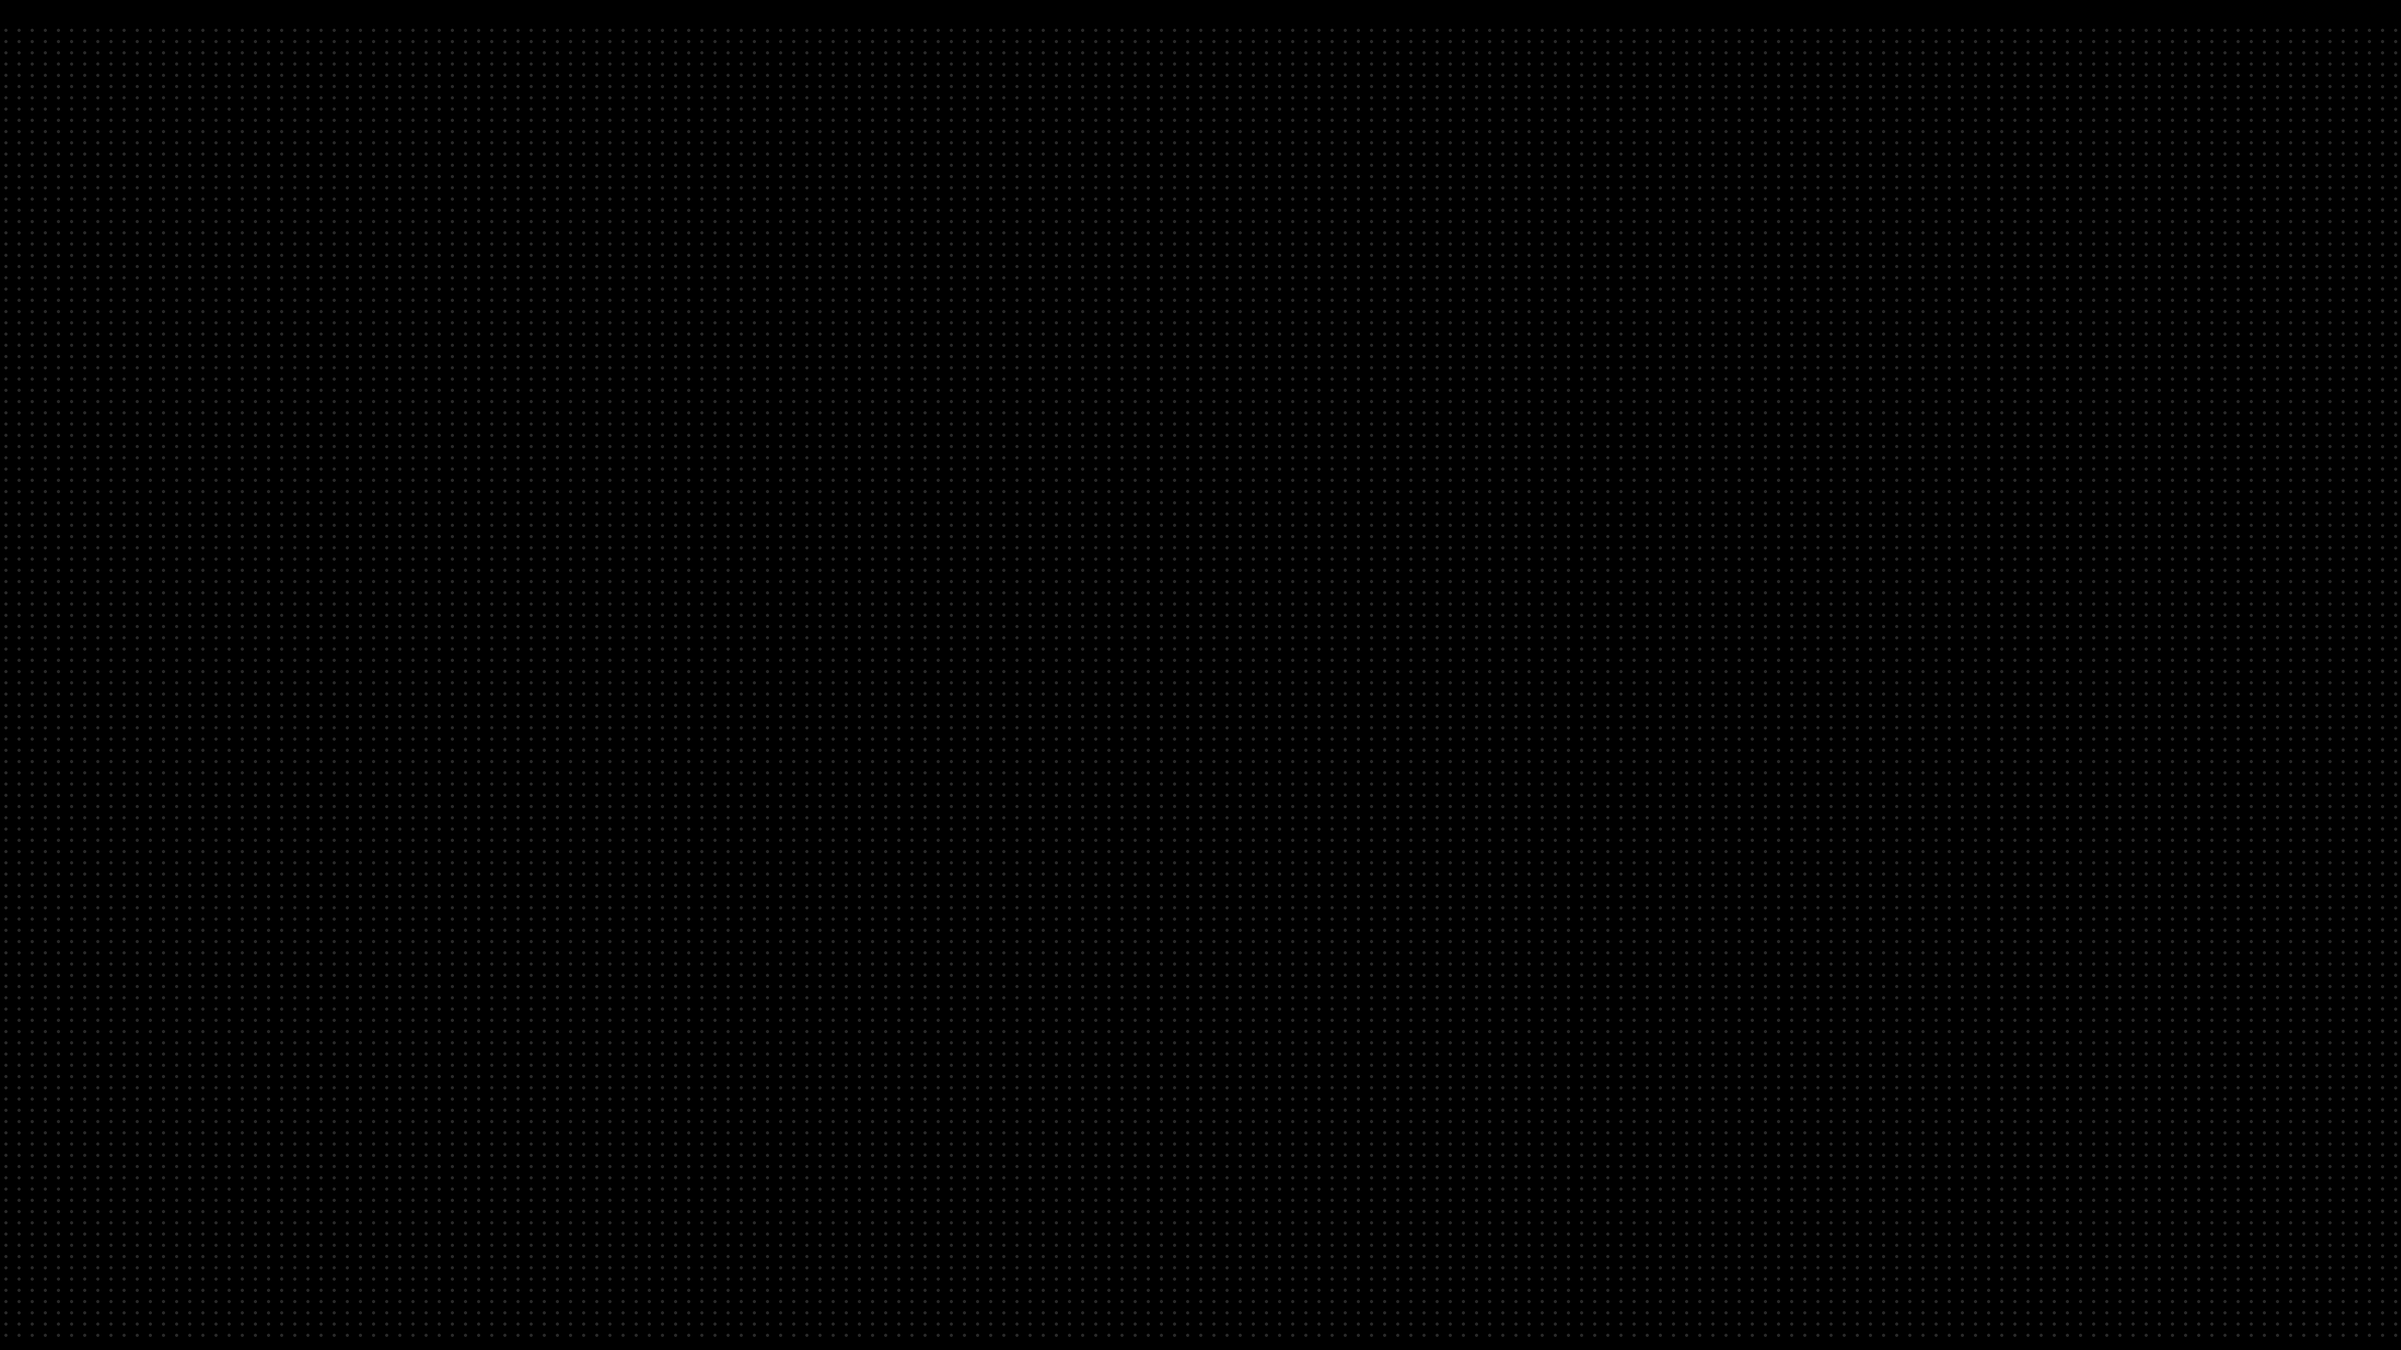
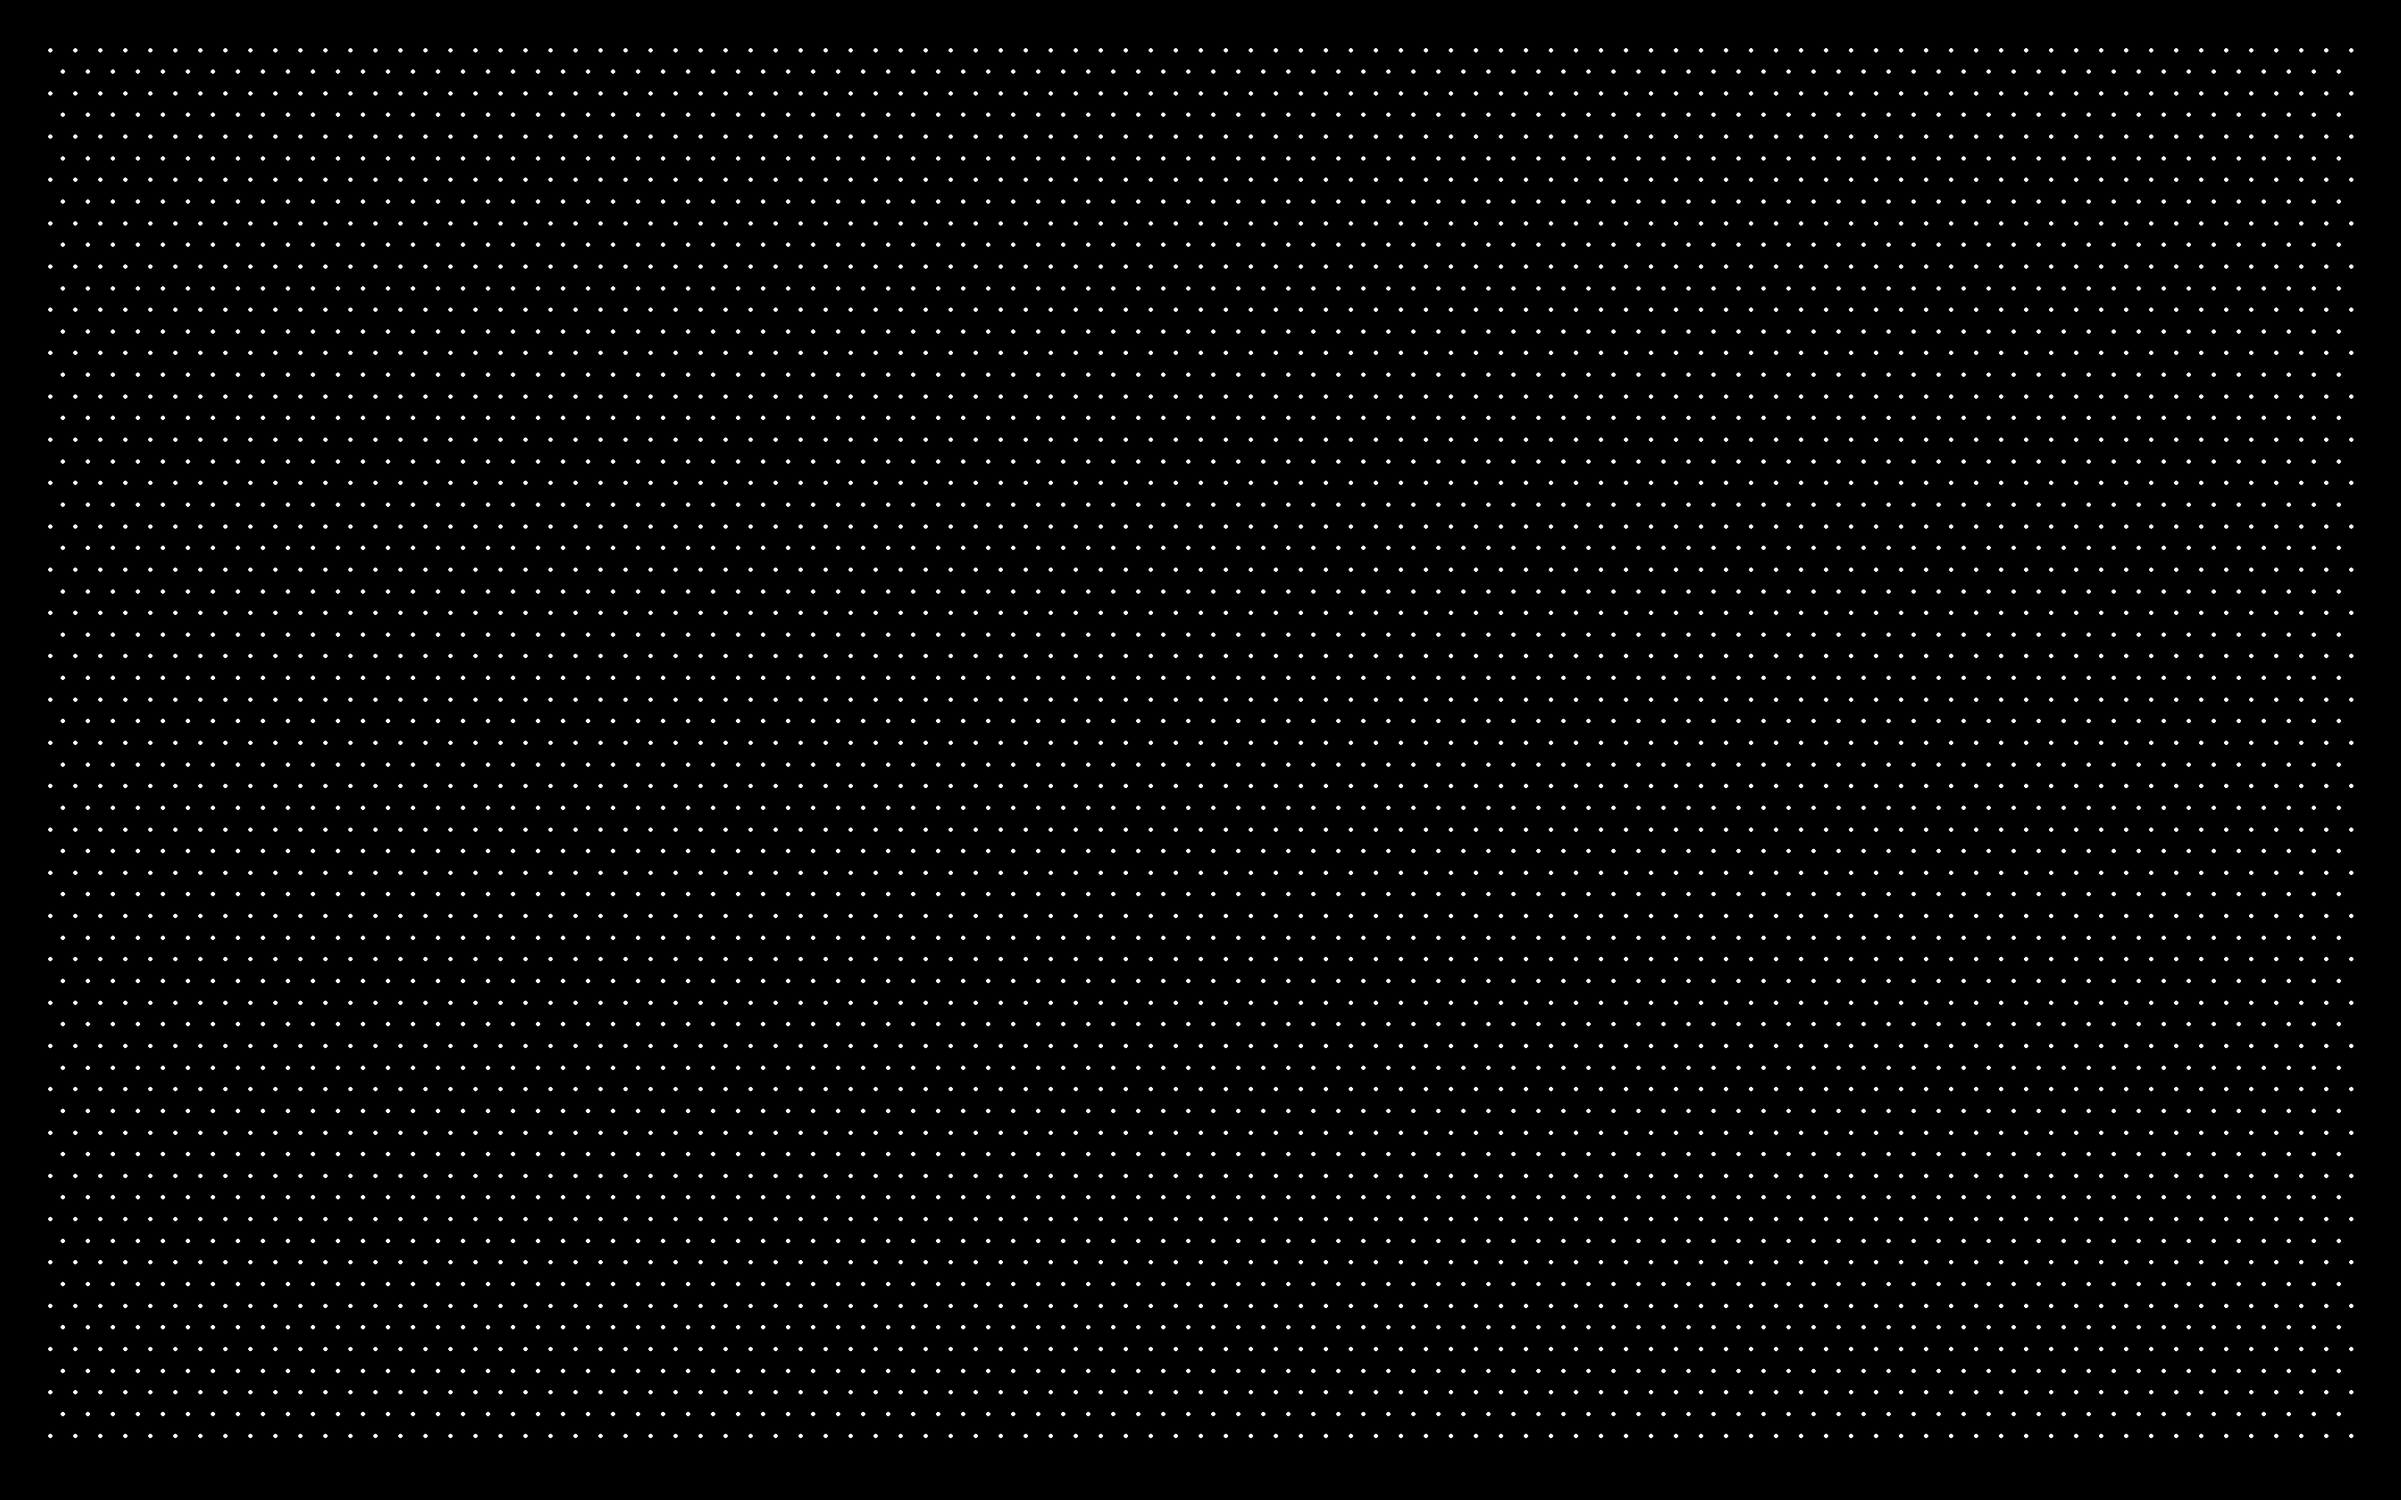
Replaces recursive BSP wallpaper generation with parametric isometric dot grid
Replaces the recursive binary space partitioning-based wallpaper generation logic with a parametric isometric dot grid generator.

The new implementation uses a hexagonal grid pattern with customizable parameters such as spacing, margin, dot radius, colors, and output path. The change introduces support for a CLI interface with argument parsing, allowing more flexibility for users to define grid properties.

Removes hardcoded constants and improves usability, maintainability, and customization options.

diff --git a/wallpapers/dotted_wallpaper.py b/wallpapers/dotted_wallpaper.py
@@ -1,121 +1,122 @@
+import argparse
+import math
+from pathlib import Path
+
 from PIL import Image, ImageDraw
 
-# ================= CONFIGURATION =================
-# 1. Screen Dimensions
-SCREEN_W = 3840
-SCREEN_H = 2400
-SCALE = 1.5
 
-# 2. Window Manager Settings (Use Logical values, script handles scaling)
-BAR_HEIGHT = 48
-GAP_OUTER = 18  # Space between screen edge and windows
-GAP_INNER = 18  # Space between two windows (Visual size)
-# Note: If your config says "gaps_in 6", the visual gap is often 6+6=12.
-# We use 12 here to ensure the wallpaper gap matches the visual gap.
+def generate_isometric_dots(
+	width: int = 3840,
+	height: int = 2400,
+	background_color: tuple[int, int, int] = (0, 0, 0),
+	dot_color: tuple[int, int, int] = (255, 255, 255),
+	dot_radius: int = 3,
+	spacing: int = 40,
+	margin: int = 80,
+	output: Path | str = "dotted_wallpaper.png",
+) -> Path:
+	"""Generate an isometric grid of dots on a solid background.
 
-# 3. Visuals
-RECURSION_DEPTH = 6  # How many times to split? (5 is usually enough for 4K)
-DOT_SIZE = 2  # Radius (2 = 4px circle)
-DOT_SPACING = 18  # How far apart dots are along the line
-DOT_COLOR = (80, 80, 80)  # Light Grey
-BG_COLOR = (10, 10, 10)  # Deep Dark Grey
+	The grid is a hexagonal/triangular lattice: each row is offset by half the
+	horizontal spacing, and vertical spacing is spacing * sin(60°).
+	All numeric parameters are in pixels.
+	"""
 
-# ================= SETUP =================
-# Convert logical to physical pixels
-bar_phys = int(BAR_HEIGHT * SCALE)
-gap_out_phys = int(GAP_OUTER * SCALE)
-gap_in_phys = int(GAP_INNER * SCALE)
+	img = Image.new("RGB", (width, height), background_color)
+	draw = ImageDraw.Draw(img)
 
-image = Image.new("RGB", (SCREEN_W, SCREEN_H), BG_COLOR)
-draw = ImageDraw.Draw(image)
+	h_spacing = float(spacing)
+	v_spacing = spacing * math.sin(math.radians(60))  # ≈ 0.866 * spacing
 
+	y = float(margin)
+	row_index = 0
 
-# ================= RECURSIVE FUNCTION =================
-def draw_splits(x, y, w, h, depth):
-    if depth == 0:
-        return
+	while y <= height - margin:
+		# Stagger every other row by half the horizontal spacing
+		x = float(margin) + (h_spacing / 2.0 if row_index % 2 else 0.0)
 
-    # --- 1. Calculate Split Coordinates ---
-    # The math: (Width - Gap) / 2
+		while x <= width - margin:
+			left = x - dot_radius
+			top = y - dot_radius
+			right = x + dot_radius
+			bottom = y + dot_radius
+			draw.ellipse((left, top, right, bottom), fill=dot_color)
+			x += h_spacing
 
-    # Vertical Split (splits width)
-    child_w = (w - gap_in_phys) / 2
-    split_x_center = x + child_w + (gap_in_phys / 2)
+		y += v_spacing
+		row_index += 1
 
-    # Horizontal Split (splits height)
-    child_h = (h - gap_in_phys) / 2
-    split_y_center = y + child_h + (gap_in_phys / 2)
-
-    # --- 2. Draw Dots at these Split Lines ---
-
-    # Draw Vertical Line (Line at X, spanning current height)
-    # We iterate along the Y axis of the current block
-    for dy in range(int(y), int(y + h), DOT_SPACING):
-        # Draw dot centered at (split_x_center, dy)
-        draw.ellipse(
-            [
-                split_x_center - DOT_SIZE,
-                dy - DOT_SIZE,
-                split_x_center + DOT_SIZE,
-                dy + DOT_SIZE,
-            ],
-            fill=DOT_COLOR,
-        )
-
-    # Draw Horizontal Line (Line at Y, spanning current width)
-    # We iterate along the X axis of the current block
-    for dx in range(int(x), int(x + w), DOT_SPACING):
-        # Draw dot centered at (dx, split_y_center)
-        draw.ellipse(
-            [
-                dx - DOT_SIZE,
-                split_y_center - DOT_SIZE,
-                dx + DOT_SIZE,
-                split_y_center + DOT_SIZE,
-            ],
-            fill=DOT_COLOR,
-        )
-
-    # --- 3. Recurse ---
-    # We need to simulate splits in all 4 resulting quadrants
-    # to catch every possible window configuration.
-
-    # Top-Left Box
-    draw_splits(x, y, child_w, child_h, depth - 1)
-
-    # Top-Right Box
-    draw_splits(split_x_center + (gap_in_phys / 2), y, child_w, child_h, depth - 1)
-
-    # Bottom-Left Box
-    draw_splits(x, split_y_center + (gap_in_phys / 2), child_w, child_h, depth - 1)
-
-    # Bottom-Right Box
-    draw_splits(
-        split_x_center + (gap_in_phys / 2),
-        split_y_center + (gap_in_phys / 2),
-        child_w,
-        child_h,
-        depth - 1,
-    )
+	output_path = Path(output).expanduser().resolve()
+	output_path.parent.mkdir(parents=True, exist_ok=True)
+	img.save(output_path, format="PNG")
+	return output_path
 
 
-# ================= EXECUTION =================
+def parse_args() -> argparse.Namespace:
+	parser = argparse.ArgumentParser(
+		description="Generate a parametric isometric dotted wallpaper.",
+	)
 
-# Define the "Root" container (The area inside the outer gaps and bar)
-root_x = gap_out_phys
-root_y = bar_phys + gap_out_phys
-root_w = SCREEN_W - (2 * gap_out_phys)
-root_h = SCREEN_H - bar_phys - (2 * gap_out_phys)
+	parser.add_argument("--width", type=int, default=3840, help="Image width in pixels.")
+	parser.add_argument("--height", type=int, default=2400, help="Image height in pixels.")
+	parser.add_argument("--dot-radius", type=int, default=3, help="Dot radius in pixels.")
+	parser.add_argument(
+		"--spacing",
+		type=int,
+		default=40,
+		help="Base spacing between dots (horizontal); vertical spacing is spacing * sin(60°).",
+	)
+	parser.add_argument("--margin", type=int, default=80, help="Margin around the grid in pixels.")
+	parser.add_argument(
+		"--background",
+		type=str,
+		default="0,0,0",
+		help="Background RGB as 'R,G,B' (0-255). Default: 0,0,0 (black)",
+	)
+	parser.add_argument(
+		"--dot-color",
+		type=str,
+		default="255,255,255",
+		help="Dot RGB as 'R,G,B' (0-255). Default: 255,255,255 (white)",
+	)
+	parser.add_argument(
+		"--output",
+		type=str,
+		default="dotted_wallpaper.png",
+		help="Output PNG path.",
+	)
 
-print(f"Generating recursive grid for area: {int(root_w)}x{int(root_h)}")
-print(f"Recursion Depth: {RECURSION_DEPTH}")
+	return parser.parse_args()
 
-draw_splits(root_x, root_y, root_w, root_h, RECURSION_DEPTH)
 
-# Optional: Draw the outer boundary (to see if it matches the outer gap)
-# for px in range(int(root_x), int(root_x + root_w), DOT_SPACING):
-#     draw.ellipse([px-1, root_y-1, px+1, root_y+1], fill=(100,0,0))
+def parse_rgb(value: str) -> tuple[int, int, int]:
+	parts = value.split(",")
+	if len(parts) != 3:
+		raise ValueError(f"Invalid RGB value '{value}', expected 'R,G,B'.")
+	rgb = tuple(int(p) for p in parts)
+	if any(c < 0 or c > 255 for c in rgb):
+		raise ValueError(f"RGB components must be between 0 and 255: {rgb}")
+	return rgb  # type: ignore[return-value]
 
-filename = "recursive_bsp_wallpaper.png"
-image.save(filename)
-print(f"Done! Saved as {filename}")
+
+def main() -> None:
+	args = parse_args()
+
+	background = parse_rgb(args.background)
+	dot_color = parse_rgb(args.dot_color)
+
+	generate_isometric_dots(
+		width=args.width,
+		height=args.height,
+		background_color=background,
+		dot_color=dot_color,
+		dot_radius=args.dot_radius,
+		spacing=args.spacing,
+		margin=args.margin,
+		output=args.output,
+	)
+
+
+if __name__ == "__main__":
+	main()
+

diff --git a/wallpapers/recursive_grid.py b/wallpapers/recursive_grid.py
@@ -1,0 +1,75 @@
+from PIL import Image, ImageDraw
+
+# ================= CONFIGURATION =================
+# Physical Screen Resolution
+SCREEN_W = 3840
+SCREEN_H = 2160
+
+# Layout Configuration (Physical Pixels - Scaled 1.5x)
+# Bar: 32px logical * 1.5 = 48px
+BAR_HEIGHT = 54
+
+# Outer Gap: 12px logical * 1.5 = 18px
+GAP_OUTER = 18
+
+# Inner Gap: 12px logical * 1.5 = 18px
+# (This is the space BETWEEN windows)
+GAP_INNER = 18
+
+# Aesthetic Configuration
+DEPTH = 6  # How many recursive splits to draw (5 is usually plenty)
+LINE_WIDTH = 2  # Thickness of the grid lines (Try 18 to fill the gap entirely)
+LINE_COLOR = (80, 80, 80)  # Grey
+BG_COLOR = (10, 10, 10)  # Black/Dark Grey
+
+# ================= SETUP =================
+image = Image.new("RGB", (SCREEN_W, SCREEN_H), BG_COLOR)
+draw = ImageDraw.Draw(image)
+
+# Define the effective "Tiling Area"
+# The wallpaper lines must be calculated relative to where windows actually go.
+container_x = GAP_OUTER
+container_y = BAR_HEIGHT + GAP_OUTER
+container_w = SCREEN_W - (GAP_OUTER * 2)
+container_h = SCREEN_H - (BAR_HEIGHT + GAP_OUTER * 2)
+
+
+# ================= RECURSIVE FUNCTION =================
+def draw_lines_recursive(x, y, w, h, level):
+    if level == 0:
+        return
+
+    # Calculate the exact center of the current container
+    mid_x = x + (w / 2)
+    mid_y = y + (h / 2)
+
+    # --- Draw Vertical Split Line ---
+    # Draws a line from the top to bottom of the CURRENT section
+    draw.line([(mid_x, y), (mid_x, y + h)], fill=LINE_COLOR, width=LINE_WIDTH)
+
+    # --- Draw Horizontal Split Line ---
+    # Draws a line from left to right of the CURRENT section
+    draw.line([(x, mid_y), (x + w, mid_y)], fill=LINE_COLOR, width=LINE_WIDTH)
+
+    # --- RECURSE ---
+    # Split the area into 4 sub-quadrants and repeat
+    new_w = w / 2
+    new_h = h / 2
+
+    # Top-Left
+    draw_lines_recursive(x, y, new_w, new_h, level - 1)
+    # Top-Right
+    draw_lines_recursive(x + new_w, y, new_w, new_h, level - 1)
+    # Bottom-Left
+    draw_lines_recursive(x, y + new_h, new_w, new_h, level - 1)
+    # Bottom-Right
+    draw_lines_recursive(x + new_w, y + new_h, new_w, new_h, level - 1)
+
+
+# ================= EXECUTE =================
+print(f"Generating line grid for area: {container_w}x{container_h}...")
+draw_lines_recursive(container_x, container_y, container_w, container_h, DEPTH)
+
+filename = "recursive_lines_wallpaper.png"
+image.save(filename)
+print(f"Done! Saved to {filename}")
